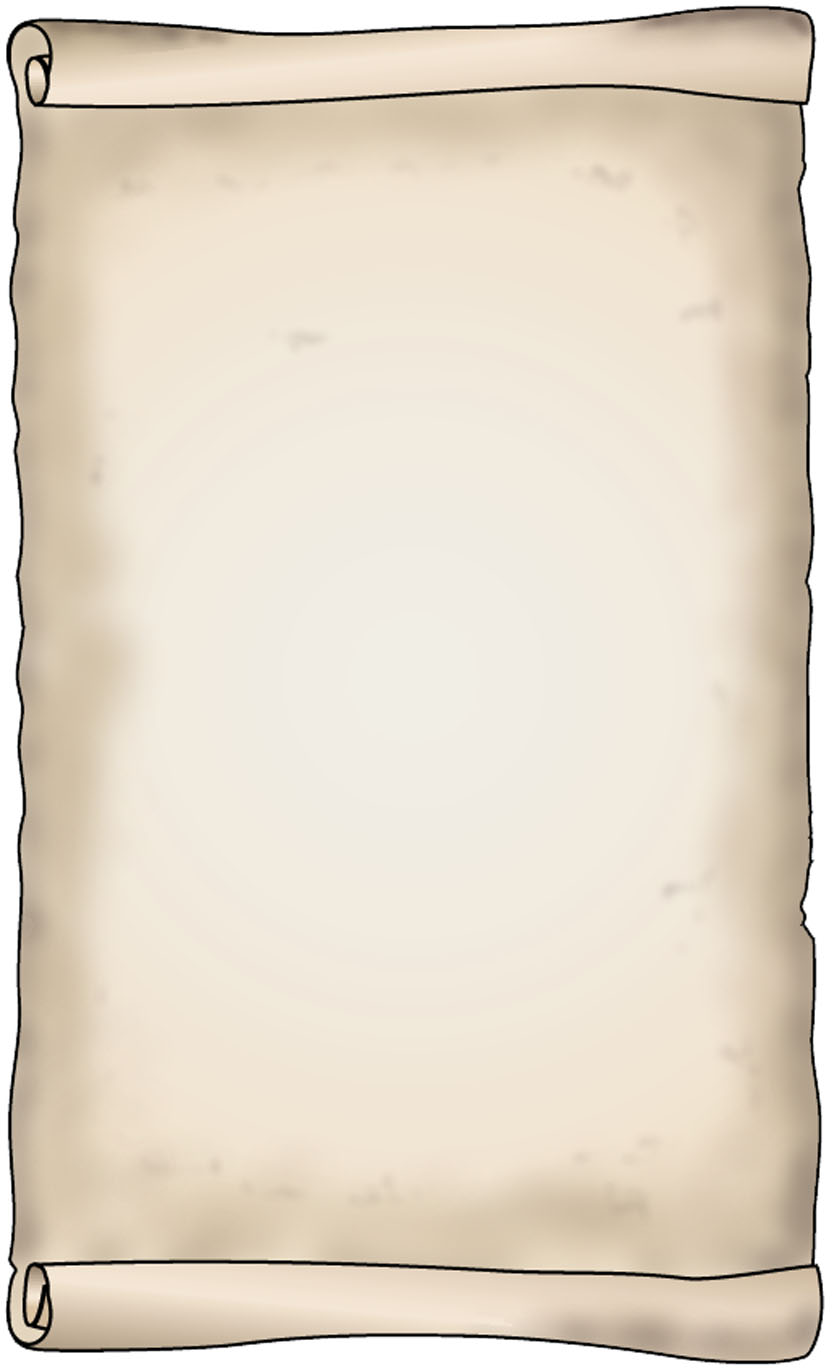
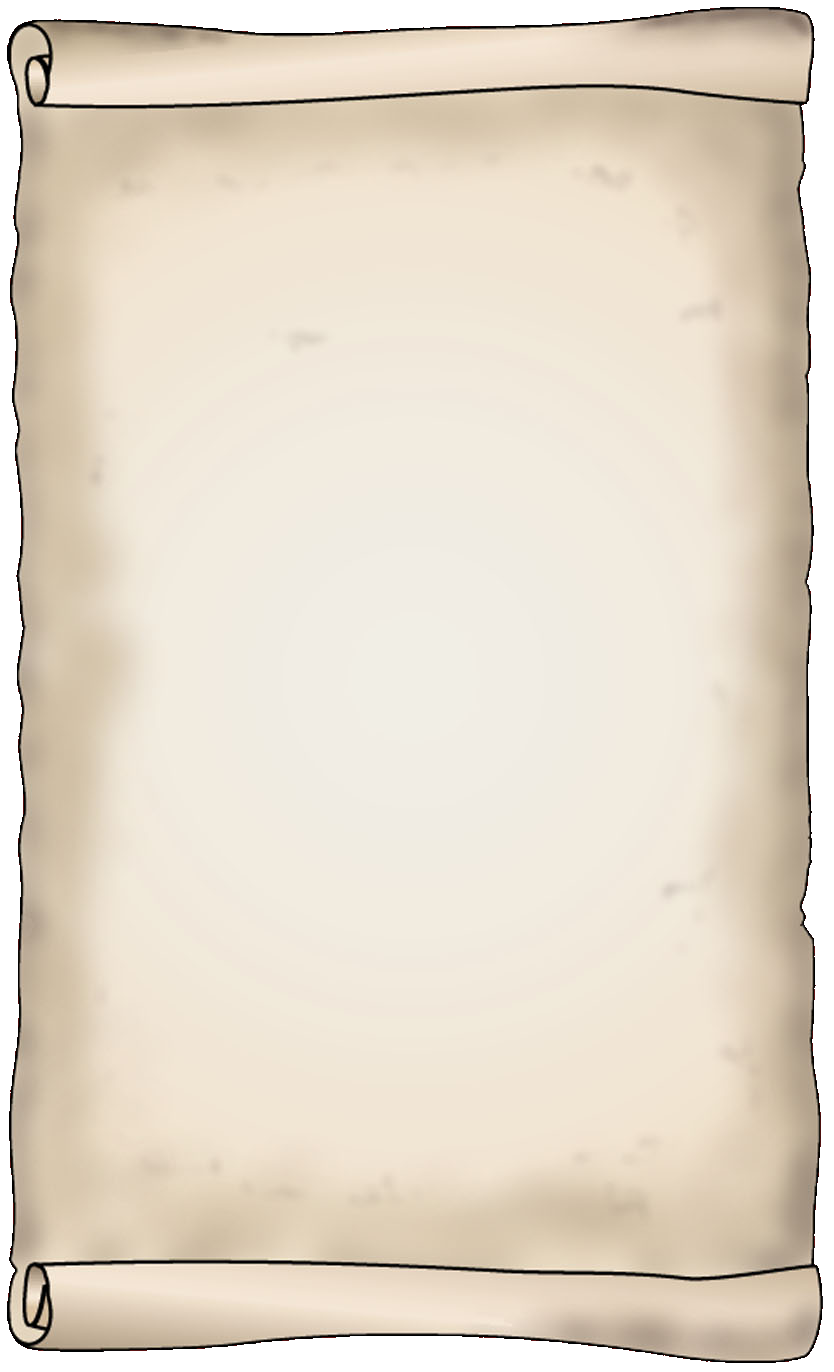
map_back

diff --git a/map.h b/map.h
@@ -41,17 +41,17 @@ private:
 	const int map_ctrl[PATTERN_MAX][4][4]{ {
 		{7, 7, 1, 1},
 		{3, 6, 1, 2},
-		{8, 18, 2, 3},
+		{8, 18, 1, 2},
 		{16, 18, 1, 1},
 		},{
 		{7, 7, 1, 1},
 		{2, 6, 1, 2},
-		{8, 18, 2, 3},
+		{8, 18, 1, 1},
 		{15, 18, 1, 1},
 		},{
 		{7, 7, 1, 1},
 		{1, 6, 1, 2},
-		{8, 18, 2, 3},
+		{8, 18, 1, 2},
 		{15, 18, 1, 1},
 		},
 	};
@@ -129,9 +129,9 @@ public:
 	}
 
 	void ClearStage() {
-		cursor_move = TRUE;
 		cursor_pos = 0;
 		cursor_loc = next_stage[pattern][now_stage][0];
+		cursor_r = 45;
 		int center_def = 360 - icon_loc[cursor_loc][1];
 		map_move = map_move + center_def;
 		alpha = 0;
